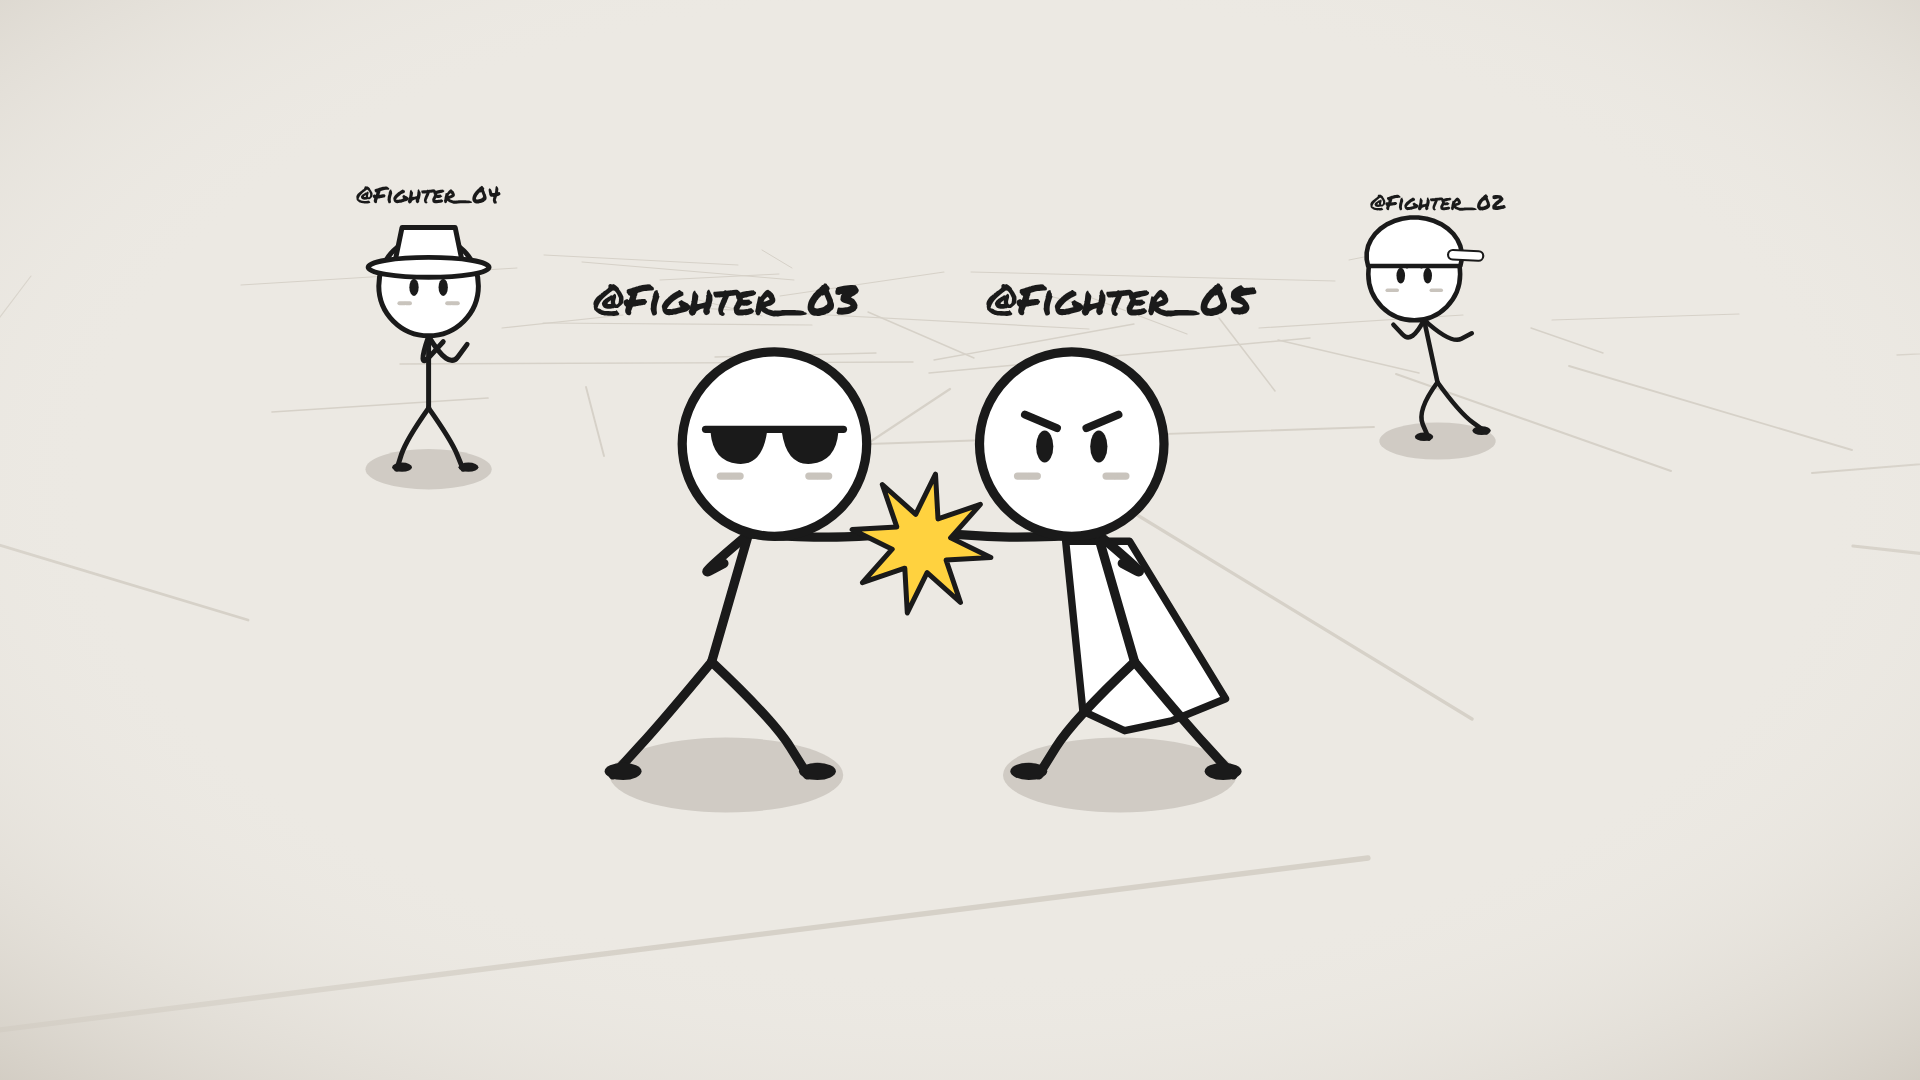
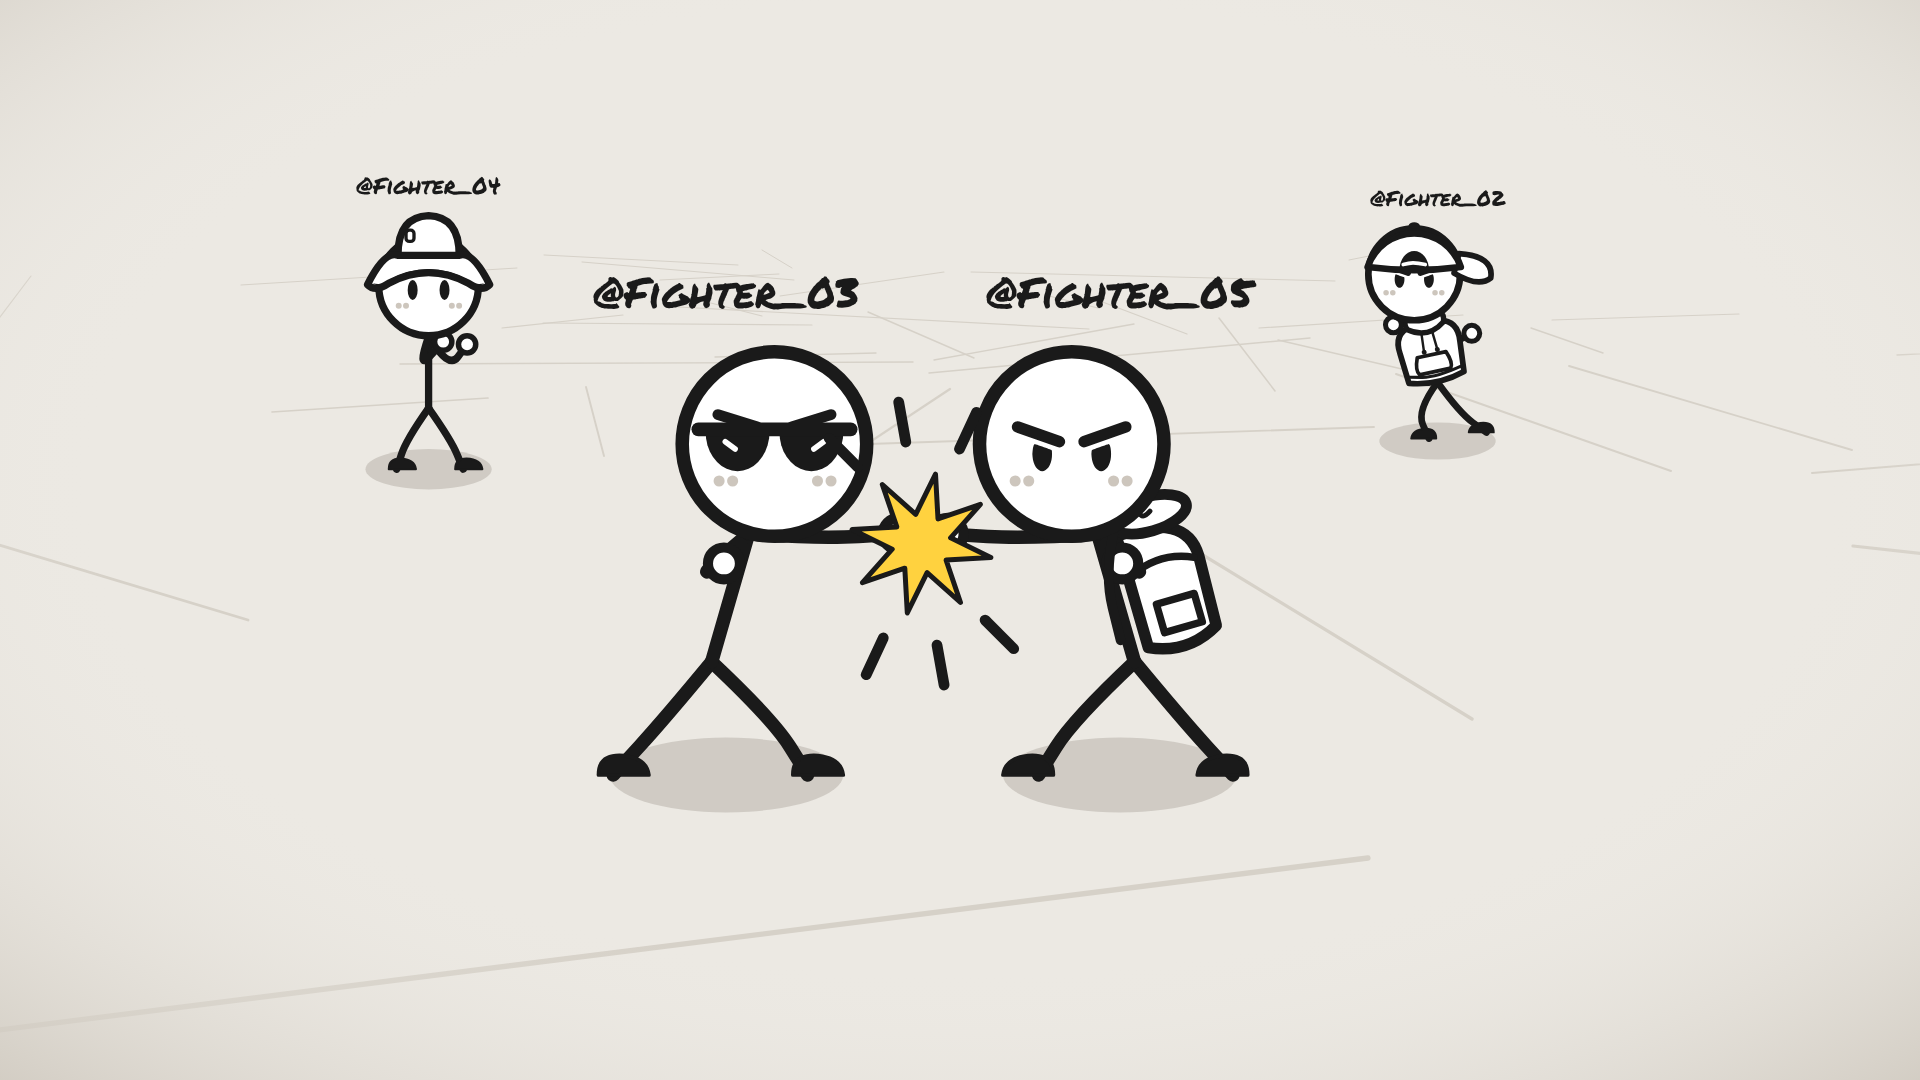
Samples: outfits, fists, shoes, faces and line weight matched to the style master
Claude-Session: https://claude.ai/code/session_01N74aR1TsGtwfzp4oXH3urD

diff --git a/samples/style3d/sample3d.html b/samples/style3d/sample3d.html
@@ -7,7 +7,7 @@
 <script>
 // ------------------------------------------------------------ look
 const BG = '#ece9e3', INK = '#1a1a1a', SHADOW = 'rgba(60,50,40,.16)';
-const HR = 75, LW = 7.5;                     // head radius and line width in fighter units (style master: head ~half the height)
+const HR = 75, LW = 11;                     // head radius and line width in fighter units (style master: head ~half the height)
 const lerp = (a, b, k) => a + (b - a) * k;
 function rng(seed) { let s = seed >>> 0; return () => { s = (s + 0x6D2B79F5) >>> 0; let t = s;
   t = Math.imul(t ^ (t >>> 15), t | 1); t ^= t + Math.imul(t ^ (t >>> 7), t | 61); return ((t ^ (t >>> 14)) >>> 0) / 4294967296; }; }
@@ -40,49 +40,126 @@ function joints(name, lean = 0) {
   j.head = [nx + dx / L * (HR + 1), ny + dy / L * (HR + 1)];
   return j;
 }
-// ------------------------------------------------------------ faces & accessories (style master)
-function face(j, mood) {
+// ------------------------------------------------------------ faces, hands, shoes, outfits (matched to reference/style-master.png)
+const W = '#ffffff', BLUSH = '#cdc6bd';
+const deg = a => a * Math.PI / 180;
+function ellPts(cx, cy, rx, ry, a0, a1, step = 10) { const p = []; for (let a = a0; a0 < a1 ? a <= a1 : a >= a1; a += a0 < a1 ? step : -step) p.push([cx + rx * Math.cos(deg(a)), cy + ry * Math.sin(deg(a))]); return p; }
+const outline = (d, fill = W, w = LW * .85) => `<path d="${d}" fill="${fill}" stroke="${INK}" stroke-width="${w}" stroke-linejoin="round" stroke-linecap="round"/>`;
+const P2 = pts => 'M' + pts.map(p => p[0].toFixed(1) + ',' + p[1].toFixed(1)).join(' L') + ' Z';
+
+function face(j, mood, kit) {
   const [x, y] = j.head;
-  const blush = pen([[x-44,y+26],[x-36,y+26]], '#c9c4bd', 6) + pen([[x-34,y+26],[x-28,y+26]], '#c9c4bd', 6)
-              + pen([[x+28,y+26],[x+34,y+26]], '#c9c4bd', 6) + pen([[x+36,y+26],[x+44,y+26]], '#c9c4bd', 6);
-  if (mood === 'ko') return pen([[x-30,y-10],[x-14,y+6]]) + pen([[x-14,y-10],[x-30,y+6]]) + pen([[x+14,y-10],[x+30,y+6]]) + pen([[x+30,y-10],[x+14,y+6]])
-                          + pen([[x-8,y+30],[x+8,y+28]], INK, 5);
-  if (mood === 'happy') return pen([[x-34,y+6],[x-23,y-7],[x-12,y+6]]) + pen([[x+12,y+6],[x+23,y-7],[x+34,y+6]]) + blush;
-  let g = `<ellipse cx="${x-22}" cy="${y+2}" rx="7" ry="13" fill="${INK}"/><ellipse cx="${x+22}" cy="${y+2}" rx="7" ry="13" fill="${INK}"/>` + blush;
-  if (mood === 'angry') g += pen([[x-38,y-24],[x-12,y-13]], INK, 6.5) + pen([[x+38,y-24],[x+12,y-13]], INK, 6.5);
+  const blush = [-1, 1].map(sd => `<circle cx="${x + sd*40 - 5}" cy="${y + 30}" r="4.5" fill="${BLUSH}"/><circle cx="${x + sd*40 + 6}" cy="${y + 30}" r="4.5" fill="${BLUSH}"/>`).join('');
+  if (mood === 'ko') return [-1, 1].map(sd => pen([[x+sd*24-10,y-6],[x+sd*24+10,y+14]], INK, LW*.8) + pen([[x+sd*24+10,y-6],[x+sd*24-10,y+14]], INK, LW*.8)).join('') + blush;
+  if (mood === 'happy') return pen([[x-40,y+12],[x-26,y-4],[x-12,y+12]], INK, LW*.85) + pen([[x+12,y+12],[x+26,y-4],[x+40,y+12]], INK, LW*.85) + blush;
+  if (kit === 'shades') return blush + (mood === 'angry' ? pen([[x-46,y-24],[x-14,y-14]], INK, LW*.8) + pen([[x+46,y-24],[x+14,y-14]], INK, LW*.8) : '');
+  if (mood === 'angry') {           // eyes cut flat under thick slanted brows (like the lifter / ninja)
+    let g = '';
+    for (const sd of [-1, 1]) {
+      const ex = x + sd * 24, ey = y + 8, b0 = [x + sd * 44, y - 14], b1 = [x + sd * 10, y - 2];
+      const browY = px => b0[1] + (b1[1] - b0[1]) * (px - b0[0]) / (b1[0] - b0[0]);
+      const pts = ellPts(ex, ey, 8, 14, 0, 360, 10).map(([px, py]) => [px, Math.max(py, browY(px) + 9)]);
+      g += `<path d="${P2(pts)}" fill="${INK}"/>` + pen([b0, b1], INK, LW*.85);
+    }
+    return g + blush;
+  }
+  return `<ellipse cx="${x-24}" cy="${y+6}" rx="7.5" ry="15" fill="${INK}"/><ellipse cx="${x+24}" cy="${y+6}" rx="7.5" ry="15" fill="${INK}"/>` + blush;
+}
+const shoe = ([fx, fy]) => `<path d="M${fx-12},${fy} Q${fx-12},${fy-16} ${fx+5},${fy-16} Q${fx+27},${fy-15} ${fx+29},${fy} Z" fill="${INK}" stroke="${INK}" stroke-width="3" stroke-linejoin="round"/>`;
+const fist = ([hx, hy]) => `<circle cx="${hx}" cy="${hy}" r="13" fill="${W}" stroke="${INK}" stroke-width="${LW*.75}"/>`;
+
+// --- headwear (head centre x,y; R = head radius; +x = forward)
+function ninjaBand([x, y]) {
+  const R = HR, t = -38, b = -10, xt = Math.sqrt(R*R - t*t), xb = Math.sqrt(R*R - b*b);
+  let g = outline(`M${x-xt},${y+t} Q${x},${y+t+12} ${x+xt},${y+t} L${x+xb},${y+b} Q${x},${y+b+12} ${x-xb},${y+b} Z`);
+  g += pen([[x-20,y-18],[x+18,y-17]], INK, 3);                                   // cloth fold
+  g += outline(`M${x-R+4},${y-32} Q${x-R-30},${y-66} ${x-R-86},${y-52} Q${x-R-70},${y-38} ${x-R-80},${y-22} Q${x-R-36},${y-34} ${x-R-2},${y-14} Z`);      // upper tail
+  g += outline(`M${x-R+2},${y-18} Q${x-R-30},${y+2} ${x-R-62},${y+38} Q${x-R-44},${y+34} ${x-R-36},${y+50} Q${x-R-14},${y+16} ${x-R+8},${y-4} Z`);        // lower tail
+  g += pen([[x-R-30,y-46],[x-R-58,y-44]], INK, 3) + pen([[x-R-20,y+12],[x-R-38,y+36]], INK, 3);
+  g += `<ellipse cx="${x-R+6}" cy="${y-22}" rx="13" ry="15" fill="${W}" stroke="${INK}" stroke-width="${LW*.8}"/>`; // knot
   return g;
 }
-function item(kind, j) {
-  const [hx, hy] = j.head, [nx, ny] = j.neck;
-  switch (kind) {
-    case 'headband': return pen([[hx-HR+4,hy-28],[hx+HR-4,hy-28]], INK, 24) + pen([[hx-HR+6,hy-28],[hx+HR-6,hy-28]], '#fff', 12)
-      + cloth([[hx-HR+2,hy-30],[hx-HR-30,hy-22],[hx-HR-62,hy-36]], 9) + cloth([[hx-HR+2,hy-26],[hx-HR-34,hy-4],[hx-HR-60,hy-8]], 9);
-    case 'cap': { const pts = []; for (let a = 195; a >= -15; a -= 10) pts.push([hx+(HR+3)*Math.cos(a*Math.PI/180), hy-30-(HR-12)*Math.sin(a*Math.PI/180)]);
-      return poly(pts, '#fff', `stroke="${INK}" stroke-width="${LW}" stroke-linejoin="round"`) + cloth([[hx-HR-30,hy-30],[hx-HR+12,hy-32]], 12); } // backwards cap
-    case 'shades': return `<path d="M${hx-52},${hy-10} L${hx-6},${hy-10} Q${hx-10},${hy+18} ${hx-30},${hy+16} Q${hx-50},${hy+14} ${hx-52},${hy-10} Z" fill="${INK}"/>`
-      + `<path d="M${hx+6},${hy-10} L${hx+52},${hy-10} Q${hx+50},${hy+14} ${hx+30},${hy+16} Q${hx+10},${hy+18} ${hx+6},${hy-10} Z" fill="${INK}"/>`
-      + pen([[hx-56,hy-12],[hx+56,hy-12]], INK, 6);
-    case 'buckethat': return poly([[hx-52,hy-30],[hx-40,hy-88],[hx+40,hy-88],[hx+52,hy-30]], '#fff', `stroke="${INK}" stroke-width="${LW}" stroke-linejoin="round"`)
-      + `<ellipse cx="${hx}" cy="${hy-28}" rx="${HR+16}" ry="15" fill="#fff" stroke="${INK}" stroke-width="${LW}"/>`;
-    case 'cape': { const [px, py] = j.hip; const pts = [[nx-26,ny+6],[nx+26,ny+6],[px+42,py+40],[px+8,py+56],[px-30,py+48],[px-74,py+30]];
-      return poly(pts, '#fff', `stroke="${INK}" stroke-width="6" stroke-linejoin="round"`); }
-  }
-  return '';
+function backCap([x, y]) {             // cap worn backwards: strap opening at the front, brim sticking out the back
+  const R = HR, e = -12, xe = Math.sqrt(R*R - e*e);
+  let g = outline(`M${x-R+2},${y-34} Q${x-R-56},${y-30} ${x-R-50},${y+6} Q${x-R-30},${y+22} ${x-R+10},${y-2} Z`);   // brim
+  g += outline(`M${x-xe-2},${y+e} A${R+5},${R+5} 0 0 1 ${x+xe+2},${y+e} Q${x},${y+e+10} ${x-xe-2},${y+e} Z`, W, LW);  // dome
+  g += `<path d="M${x-24},${y-8} A24,30 0 0 1 ${x+24},${y-8} Z" fill="${INK}"/>` + pen([[x-18,y-16],[x,y-20],[x+18,y-16]], W, 6); // opening + strap
+  g += pen([[x+26,y-R+8],[x+44,y-R+22]], INK, 4) + `<ellipse cx="${x}" cy="${y-R-5}" rx="9" ry="5" fill="${INK}"/>`;
+  return g;
 }
-function fighter(f) {                         // f: {pose, item, mood}; returns local SVG (feet at y=0)
-  const j = joints(f.pose); let g = '';
-  if (f.item === 'cape') g += item('cape', j);
-  for (const seg of [['neck','hip'],['neck','le','lh'],['neck','re','rh'],['hip','lk','lf'],['hip','rk','rf']]) g += pen(seg.map(n => j[n]));
-  for (const ft of ['lf', 'rf']) g += `<ellipse cx="${j[ft][0] + 8}" cy="${j[ft][1] - 3}" rx="15" ry="7" fill="${INK}"/>`;
-  if (f.pose === 'CHARGE') for (let i = 0; i < 10; i++) { const a = (i * 36 - 90) * Math.PI / 180, r1 = 175, r2 = 215;
-    g += pen([[r1*Math.cos(a), -165 + r1*Math.sin(a)], [r2*Math.cos(a), -165 + r2*Math.sin(a)]], INK, 6); }
-  if (f.item === 'buckethat' || f.item === 'cap') g += ''; // drawn after head
-  g += `<circle cx="${j.head[0]}" cy="${j.head[1]}" r="${HR}" fill="#fff" stroke="${INK}" stroke-width="${LW}"/>`;
-  g += face(j, f.item === 'shades' && f.mood === 'angry' ? 'normal' : f.mood);
-  if (f.item && f.item !== 'cape') g += item(f.item, j);
-  if (f.crown) { const [hx, hy] = [j.head[0], j.head[1] - HR + 6];
-    g += poly([[hx-34,hy],[hx-40,hy-44],[hx-17,hy-20],[hx,hy-54],[hx+17,hy-20],[hx+40,hy-44],[hx+34,hy]], '#ffd23f', `stroke="${INK}" stroke-width="6" stroke-linejoin="round"`); }
-  return { svg: g, top: j.head[1] - HR - (f.crown ? 54 : 0) - (f.item === 'buckethat' ? 20 : 0) };
+function bucketHat([x, y]) {
+  let g = outline(`M${x-46},${y-42} Q${x-48},${y-104} ${x},${y-106} Q${x+48},${y-104} ${x+46},${y-42} Z`, W, LW);   // crown
+  g += outline(`M${x-92},${y-2} Q${x-66},${y-54} ${x-46},${y-46} L${x+46},${y-46} Q${x+66},${y-54} ${x+92},${y-2} Q${x+80},${y+10} ${x+60},${y-4} Q${x},${y-36} ${x-60},${y-4} Q${x-80},${y+10} ${x-92},${y-2} Z`, W, LW);
+  g += `<path d="M${x-84},${y-4} Q${x-70},${y+6} ${x-58},${y-6} Q${x},${y-38} ${x+58},${y-6} Q${x+70},${y+6} ${x+84},${y-4} Q${x+70},${y+0} ${x+58},${y-10} Q${x},${y-41} ${x-58},${y-10} Q${x-70},${y+0} ${x-84},${y-4} Z" fill="${INK}"/>`; // dark underside
+  g += `<rect x="${x-34}" y="${y-84}" width="12" height="17" rx="5" fill="${W}" stroke="${INK}" stroke-width="5"/>`;   // little side hole
+  return g;
+}
+function shades([x, y]) {
+  const lens = sd => { const a = x + sd * 4, b = x + sd * 56, c = (a + b) / 2, top = y - 10;
+    const pts = [[a, top], [b, top - 2], ...ellPts(c, top, 26, 32, sd > 0 ? 0 : 180, sd > 0 ? 180 : 0, 10)];
+    return `<path d="${P2(pts)}" fill="${INK}"/>` + pen([[c + sd*10, top + 8], [c + sd*2, top + 14]], W, 4.5); };
+  return lens(-1) + lens(1) + pen([[x-62,y-12],[x+62,y-12]], INK, 11);
+}
+function sword([hx, hy], angle) {      // katana held in the front fist
+  const d = [Math.cos(deg(angle)), Math.sin(deg(angle))], n = [-d[1], d[0]], L = angle > 0 ? 150 : 220;
+  const g0 = [hx + d[0]*20, hy + d[1]*20], tip = [hx + d[0]*L, hy + d[1]*L], mid = [hx + d[0]*L*.55 + n[0]*10, hy + d[1]*L*.55 + n[1]*10];
+  const butt = [hx - d[0]*46, hy - d[1]*46];
+  let g = pen([butt, [hx + d[0]*14, hy + d[1]*14]], INK, 15);
+  for (let i = 1; i < 4; i++) { const p = [hx - d[0]*(i*11), hy - d[1]*(i*11)]; g += pen([[p[0]-n[0]*4, p[1]-n[1]*4], [p[0]+n[0]*4, p[1]+n[1]*4]], W, 3); }
+  g += pen([g0, mid, tip], INK, 17) + pen([g0, mid, [tip[0]-d[0]*6, tip[1]-d[1]*6]], W, 6);
+  g += `<ellipse cx="${g0[0]}" cy="${g0[1]}" rx="17" ry="7" transform="rotate(${angle + 90} ${g0[0]} ${g0[1]})" fill="#9a9a9a" stroke="${INK}" stroke-width="5"/>`;
+  return g;
+}
+// --- torso wear, drawn in the torso's own frame (neck at 0,0; hip at 0,L)
+function torsoFrame(j, inner) {
+  const dx = j.hip[0] - j.neck[0], dy = j.hip[1] - j.neck[1], L = Math.hypot(dx, dy), th = Math.atan2(-dx, dy) * 180 / Math.PI;
+  return `<g transform="translate(${j.neck[0]},${j.neck[1]}) rotate(${th.toFixed(1)})">${inner(L)}</g>`;
+}
+const hoodie = j => torsoFrame(j, L =>
+  outline(`M-24,6 Q-54,12 -50,46 L-46,${L-8} Q0,${L+6} 46,${L-8} L50,46 Q54,12 24,6 Z`, W, LW*.85)
+  + pen([[-45,L-18],[0,L-8],[45,L-18]], INK, 5)                                                   // hem band
+  + outline(`M-30,10 Q-38,-8 -14,-10 L14,-10 Q38,-8 30,10 Q0,32 -30,10 Z`, W, LW*.8)             // hood around the neck
+  + pen([[-9,22],[-11,50]], INK, 4) + pen([[9,22],[11,50]], INK, 4) + `<circle cx="-11" cy="52" r="4" fill="${INK}"/><circle cx="11" cy="52" r="4" fill="${INK}"/>`
+  + outline(`M-24,${L-46} L24,${L-46} Q32,${L-26} 26,${L-18} L-26,${L-18} Q-32,${L-26} -24,${L-46} Z`, W, 6)); // front pocket
+const backpack = j => torsoFrame(j, L =>      // bag on the back (-x), rolled sleeping mat on top
+  outline(`M-14,6 Q-74,2 -74,40 L-72,${L-10} Q-44,${L+6} -14,${L-8} Z`, W, LW*.85)
+  + outline(`M-70,40 Q-44,28 -18,40`, 'none', 6) + outline(`M-62,${L-40} L-30,${L-40} L-30,${L-16} L-62,${L-16} Z`, W, 6)
+  + `<ellipse cx="-44" cy="-4" rx="32" ry="14" fill="${W}" stroke="${INK}" stroke-width="${LW*.8}"/>` + pen([[-46,-6],[-40,-2],[-36,-8]], INK, 4));
+const strap = j => torsoFrame(j, L => pen([[-12,4],[4,34],[6,L-20]], INK, 8));
+
+const KITS = {      // which outfit each fighter wears
+  ninja:  { head: ninjaBand, sword: true },
+  cap:    { head: backCap, body: 'hoodie' },
+  shades: { face: shades },
+  bucket: { head: bucketHat },
+  hiker:  { body: 'backpack' },
+};
+const SWORD_ANGLE = { STAND: 58, WIN: -100 };
+function fighter(f) {                         // f: {pose, kit, mood, crown}; returns local SVG (feet at y=0)
+  const j = joints(f.pose), k = KITS[f.kit] || {}; let g = '';
+  if (k.body === 'backpack') g += backpack(j);
+  for (const leg of [['hip','lk','lf'],['hip','rk','rf']]) g += pen(leg.map(n => j[n]));
+  g += shoe(j.lf) + shoe(j.rf);
+  if (k.body === 'hoodie') {                  // sleeves cover the upper arms
+    for (const [e, h] of [['le','lh'],['re','rh']]) { const sh = [j.neck[0], j.neck[1] + 14]; g += pen([sh, j[e]], INK, 34) + pen([sh, j[e]], W, 34 - LW * 1.5) + pen([j[e], j[h]]); }
+    g += hoodie(j);
+  } else {
+    g += pen([j.neck, j.hip]);
+    for (const arm of [['neck','le','lh'],['neck','re','rh']]) g += pen(arm.map(n => j[n]));
+  }
+  if (f.pose === 'CHARGE') for (let i = 0; i < 10; i++) { const a = deg(i * 36 - 90), r1 = 185, r2 = 230;
+    g += pen([[r1*Math.cos(a), -175 + r1*Math.sin(a)], [r2*Math.cos(a), -175 + r2*Math.sin(a)]], INK, 8); }
+  if (k.sword) g += sword(j.rh, SWORD_ANGLE[f.pose] ?? -62);
+  if (f.pose !== 'STAND') g += fist(j.lh) + fist(j.rh); else if (k.sword) g += fist(j.rh);
+  if (k.body === 'backpack') g += strap(j);
+  g += `<circle cx="${j.head[0]}" cy="${j.head[1]}" r="${HR}" fill="${W}" stroke="${INK}" stroke-width="${LW}"/>`;
+  g += face(j, f.mood, f.kit);
+  if (k.face) g += k.face(j.head);
+  if (k.head) g += k.head(j.head);
+  let top = j.head[1] - HR - (f.kit === 'bucket' ? 34 : 6);
+  if (f.crown) { const [hx, hy] = [j.head[0], top + 4];
+    g += poly([[hx-34,hy],[hx-40,hy-44],[hx-17,hy-20],[hx,hy-54],[hx+17,hy-20],[hx+40,hy-44],[hx+34,hy]], '#ffd23f', `stroke="${INK}" stroke-width="7" stroke-linejoin="round"`); top -= 54; }
+  return { svg: g, top };
 }
 
 // ------------------------------------------------------------ 3D camera (floor = plane y=0, x right, z away)
@@ -121,18 +198,21 @@ function scene(cam, placed, fx = '') {
 function star(x, y, size, color = '#ffd23f') { const pts = [];
   for (let i = 0; i < 16; i++) { const r = i % 2 ? size * .42 : size, a = i * Math.PI / 8 + .2; pts.push([x + r*Math.cos(a), y + r*Math.sin(a)]); }
   return poly(pts, color, `stroke="${INK}" stroke-width="5" stroke-linejoin="round"`); }
+function sparkle(x, y, r) { return `<path d="M${x},${y-r} Q${x+r*.18},${y-r*.18} ${x+r},${y} Q${x+r*.18},${y+r*.18} ${x},${y+r} Q${x-r*.18},${y+r*.18} ${x-r},${y} Q${x-r*.18},${y-r*.18} ${x},${y-r} Z" fill="none" stroke="${INK}" stroke-width="${Math.max(3, r*.16)}" stroke-linejoin="round"/>`; }
+function marks(x, y, r, a0 = -150) { let g = ''; for (let i = 0; i < 3; i++) { const a = deg(a0 + i * 35);
+  g += pen([[x + Math.cos(a)*r, y + Math.sin(a)*r], [x + Math.cos(a)*r*1.45, y + Math.sin(a)*r*1.45]], INK, Math.max(3, r*.12)); } return g; }
 const vignette = `<defs><radialGradient id="vg" cx="50%" cy="45%" r="75%"><stop offset="60%" stop-color="${BG}" stop-opacity="0"/><stop offset="100%" stop-color="#cfc9bf" stop-opacity=".9"/></radialGradient></defs>`;
 
 const CAST = [
-  { name:'@Fighter_01', item:'headband' }, { name:'@Fighter_02', item:'cap' }, { name:'@Fighter_03', item:'shades' },
-  { name:'@Fighter_04', item:'buckethat' }, { name:'@Fighter_05', item:'cape' },
+  { name:'@Fighter_01', kit:'ninja', mood:'angry' }, { name:'@Fighter_02', kit:'cap' }, { name:'@Fighter_03', kit:'shades' },
+  { name:'@Fighter_04', kit:'bucket' }, { name:'@Fighter_05', kit:'hiker' },
 ];
 const SCENES = {
   // 1. character line-up: the 5 fighters, front view
   lineup() {
     let g = '';
     CAST.forEach((c, i) => {
-      const x = 260 + i * 350, y = 860, s = 1.25, fr = fighter({ pose: 'STAND', item: c.item, mood: 'normal' });
+      const x = 260 + i * 350, y = 860, s = 1.25, fr = fighter({ pose: 'STAND', kit: c.kit, mood: c.mood || 'normal' });
       g += `<ellipse cx="${x}" cy="${y}" rx="${100*s}" ry="${20*s}" fill="${SHADOW}"/>`;
       g += `<g transform="translate(${x},${y}) scale(${s})">${fr.svg}</g>`;
       g += `<text x="${x}" y="${y + (fr.top - 26) * s}" text-anchor="middle" font-family="Permanent Marker" font-size="40" fill="${INK}">${c.name}</text>`;
@@ -144,11 +224,11 @@ const SCENES = {
     const cam = camera({ x: 110, h: 820, z: -950, pitch: 24, f: 1350 });
     const fx = (() => { const a = cam(-330, 190, 420), b = cam(470, 175, 60); return star(a.x, a.y, 45 * a.s) + star(b.x, b.y, 45 * b.s); })();
     return floorDetails(cam, 7) + scene(cam, [
-      { x:-520, z:420, face:1,  name:'@Fighter_01', f:{ pose:'PUNCH', item:'headband', mood:'angry' } },
-      { x:-250, z:420, face:-1, name:'@Fighter_02', f:{ pose:'HIT', item:'cap', mood:'ko' } },
-      { x:30,   z:780, face:1,  name:'@Fighter_03', f:{ pose:'CHARGE', item:'shades', mood:'angry' } },
-      { x:320,  z:60,  face:1,  name:'@Fighter_04', f:{ pose:'KICK', item:'buckethat', mood:'angry' } },
-      { x:600,  z:80,  face:-1, lift:120, rot:-35, name:'@Fighter_05', f:{ pose:'FLY', item:'cape', mood:'ko' } },
+      { x:-520, z:420, face:1,  name:'@Fighter_01', f:{ pose:'PUNCH', kit:'ninja', mood:'angry' } },
+      { x:-250, z:420, face:-1, name:'@Fighter_02', f:{ pose:'HIT', kit:'cap', mood:'ko' } },
+      { x:30,   z:780, face:1,  name:'@Fighter_03', f:{ pose:'CHARGE', kit:'shades', mood:'angry' } },
+      { x:320,  z:60,  face:1,  name:'@Fighter_04', f:{ pose:'KICK', kit:'bucket', mood:'angry' } },
+      { x:600,  z:80,  face:-1, lift:120, rot:-35, name:'@Fighter_05', f:{ pose:'FLY', kit:'hiker', mood:'ko' } },
     ], fx);
   },
   // 3. 3D close action: low angle on two fighters clashing, others behind
@@ -156,19 +236,20 @@ const SCENES = {
     const cam = camera({ x: 40, h: 520, z: -900, pitch: 16, f: 1500 });
     const hit = cam(10, 196, 220);
     return floorDetails(cam, 11) + scene(cam, [
-      { x:-760, z:1300, face:1,  name:'@Fighter_04', f:{ pose:'GUARD', item:'buckethat', mood:'normal' } },
-      { x:820,  z:1500, face:-1, name:'@Fighter_02', f:{ pose:'RUN', item:'cap', mood:'angry' } },
-      { x:-150, z:220,  face:1,  name:'@Fighter_03', f:{ pose:'PUNCH', item:'shades', mood:'angry' } },
-      { x:170,  z:220,  face:-1, name:'@Fighter_05', f:{ pose:'PUNCH', item:'cape', mood:'angry' } },
-    ], star(hit.x, hit.y, 55 * hit.s));
+      { x:-760, z:1300, face:1,  name:'@Fighter_04', f:{ pose:'GUARD', kit:'bucket', mood:'normal' } },
+      { x:820,  z:1500, face:-1, name:'@Fighter_02', f:{ pose:'RUN', kit:'cap', mood:'angry' } },
+      { x:-150, z:220,  face:1,  name:'@Fighter_03', f:{ pose:'PUNCH', kit:'shades', mood:'angry' } },
+      { x:170,  z:220,  face:-1, name:'@Fighter_05', f:{ pose:'PUNCH', kit:'hiker', mood:'angry' } },
+    ], star(hit.x, hit.y, 55 * hit.s) + marks(hit.x, hit.y - 10 * hit.s, 70 * hit.s, -135) + marks(hit.x, hit.y + 10 * hit.s, 70 * hit.s, 45));
   },
   // 4. winner: high angle, crowned winner, knocked-out fighters around
   winner() {
     const cam = camera({ x: 0, h: 1050, z: -1250, pitch: 30, f: 1500 });
-    return floorDetails(cam, 3) + scene(cam, [
-      { x:0,    z:300, face:1,  name:'@Fighter_05', f:{ pose:'WIN', item:'cape', mood:'happy', crown:true } },
-      { x:-520, z:620, face:1,  rot:-90, lift:70, f:{ pose:'STAND', item:'headband', mood:'ko' } },
-      { x:560,  z:520, face:-1, rot:-90, lift:70, f:{ pose:'STAND', item:'cap', mood:'ko' } },
+    const a = cam(-150, 330, 300), b = cam(160, 250, 300), c = cam(120, 420, 300);
+    return floorDetails(cam, 3) + sparkle(a.x, a.y, 30 * a.s) + sparkle(b.x, b.y, 22 * b.s) + sparkle(c.x, c.y, 16 * c.s) + scene(cam, [
+      { x:0,    z:300, face:1,  name:'@Fighter_05', f:{ pose:'WIN', kit:'hiker', mood:'happy', crown:true } },
+      { x:-520, z:620, face:1,  rot:-90, lift:70, f:{ pose:'STAND', kit:'ninja', mood:'ko' } },
+      { x:560,  z:520, face:-1, rot:-90, lift:70, f:{ pose:'STAND', kit:'cap', mood:'ko' } },
     ]);
   },
 };
